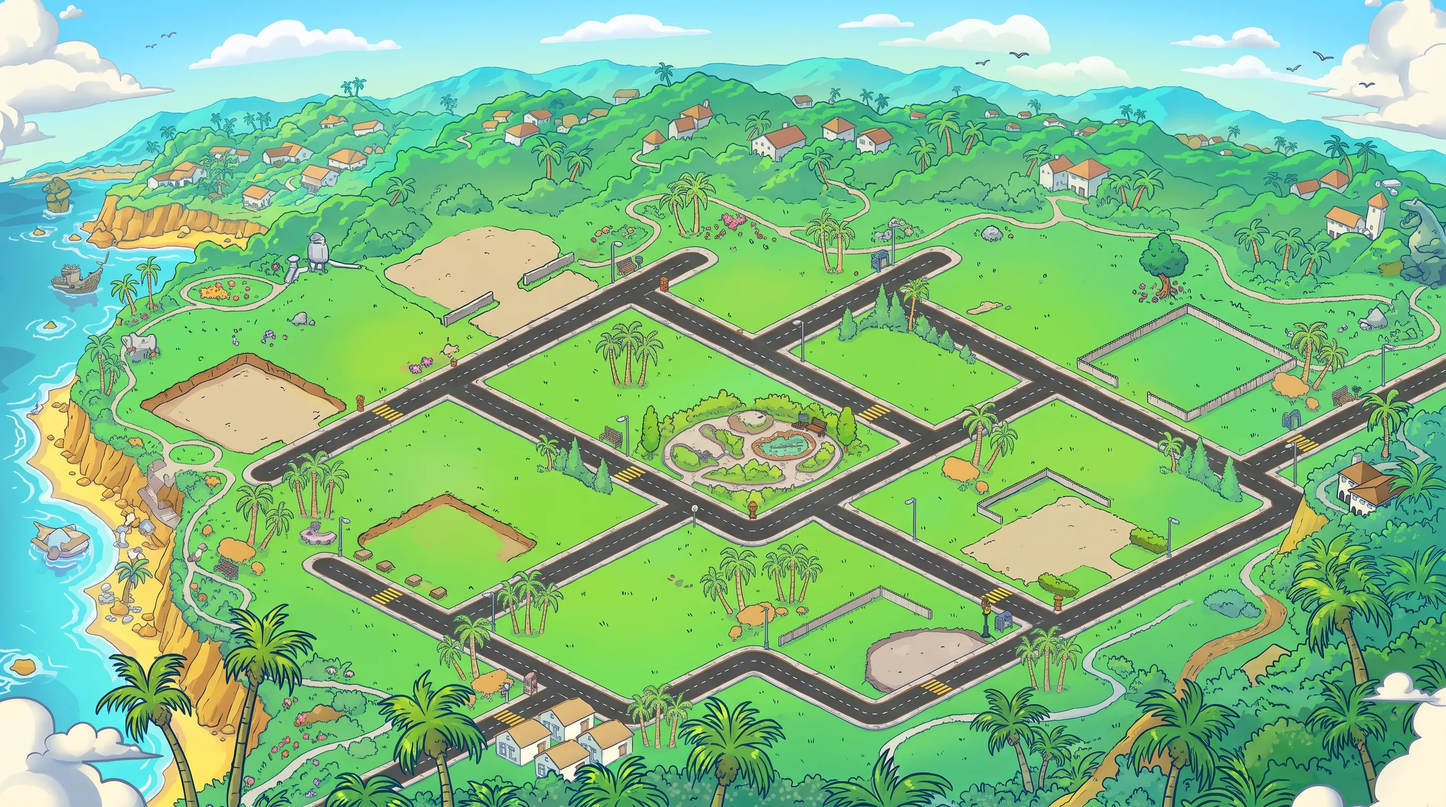
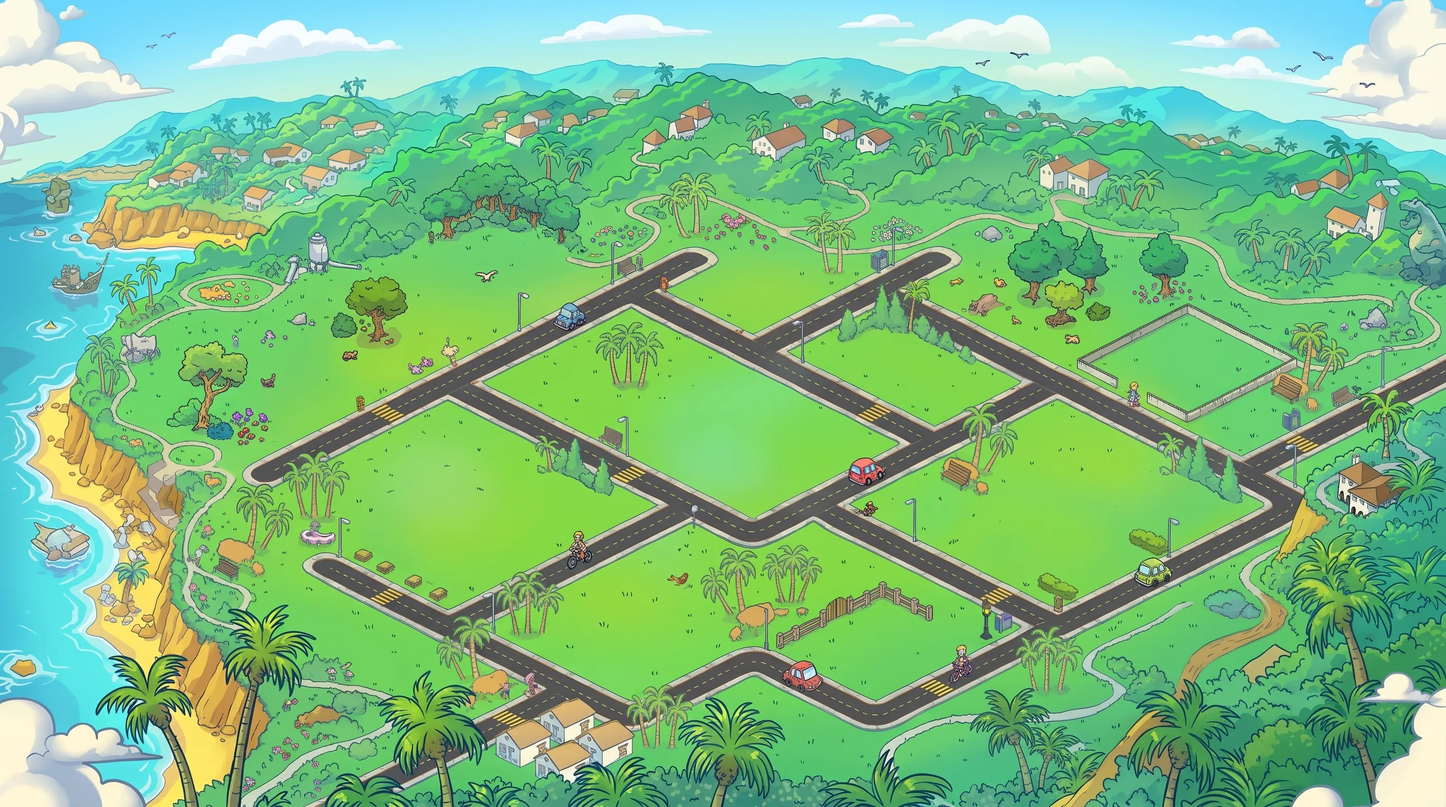
Usa el mapa mejorado como fondo
Claude-Session: https://claude.ai/code/session_01WvcRZ9ArDP3Z61TtDYvaha

Changed region(s): [[0.0, 0.0938, 1.0, 1.0], [0.4375, 0.0625, 0.4688, 0.125], [0.0, 0.8125, 0.0312, 0.875]]

diff --git a/scripts/build_assets.py b/scripts/build_assets.py
@@ -6,7 +6,7 @@ Requisitos: pip install opencv-python-headless pillow numpy
 Salida:
   public/assets/<id>.webp, <id>_hover.webp (lo que usa la web)
   assets-png/<id>.png, <id>_hover.png (copia en PNG, fuera de public para no publicarla)
-  public/assets/mapa_base.webp (tamaño original)
+  public/assets/mapa_base.webp (a partir de Imagenes/mapa_mejorado.jpg, tamaño original)
   src/data/hitAreas.json (tamaño, punto de apoyo y contorno de cada edificio)
 
 Los originales de Imagenes/ no se tocan nunca.
@@ -45,7 +45,7 @@ def main():
     PNG.mkdir(parents=True, exist_ok=True)
     DATA.parent.mkdir(parents=True, exist_ok=True)
 
-    mapa = Image.open(SRC / "Mapa.jpg").convert("RGB")
+    mapa = Image.open(SRC / "mapa_mejorado.jpg").convert("RGB")
     mapa.save(OUT / "mapa_base.webp", quality=80, method=6)  # 80 para no pasar de ~3 MB de carga inicial
     print(f"mapa_base: {mapa.size[0]}x{mapa.size[1]}")
 

diff --git a/CLAUDE.md b/CLAUDE.md
@@ -34,7 +34,7 @@ FJAH City es el **portfolio web personal** de Francisco Javier Aguayo Hernández
 
 | Archivo original | id | Nombre en la etiqueta |
 |---|---|---|
-| `Imagenes/Mapa.jpg` | `mapa_base` | (fondo) |
+| `Imagenes/mapa_mejorado.jpg` | `mapa_base` | (fondo; sustituye a `Mapa.jpg`) |
 | `Imagenes/Universidad.jpg` | `universidad` | UNIVERSIDAD |
 | `Imagenes/project.jpg` | `empresa` | LA EMPRESA |
 | `Imagenes/Taller.jpg` | `taller` | EL TALLER |
